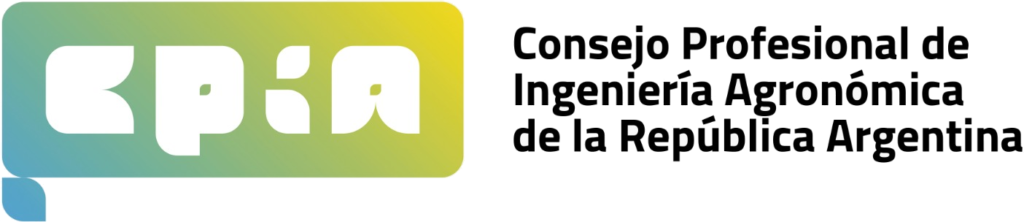
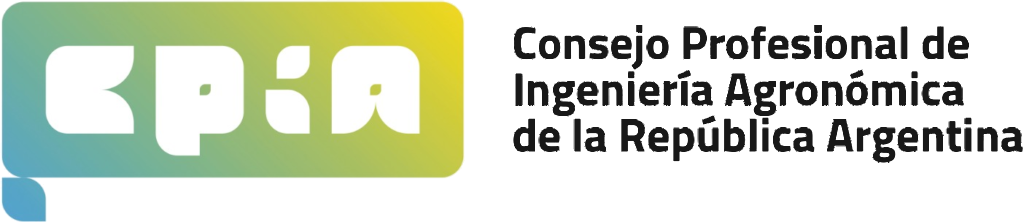
fix: remover fondo blanco atrapado en ojos de letras de INTA en avales institucionales

diff --git a/index.html b/index.html
@@ -286,7 +286,7 @@
           <!-- Fila 1: Sponsor 1 (UNLP 30.8mm) y Sponsor 2 (64.0mm) -->
           <div class="sponsors-row">
             <div class="sponsor-box box-aval-1">
-              <img src="images/sponsors/sponsor_1.png" alt="Aval Institucional" class="sponsor-logo logo-aval-1" loading="lazy">
+              <img src="images/sponsors/sponsor_1.png?v=clean_inta" alt="Aval Institucional" class="sponsor-logo logo-aval-1" loading="lazy">
             </div>
             <div class="sponsor-box box-aval-2">
               <img src="images/sponsors/sponsor_2.png" alt="Aval Institucional" class="sponsor-logo logo-aval-2" loading="lazy">
@@ -295,7 +295,7 @@
           <!-- Fila 2: Sponsor 3 (57.1mm) y Sponsor 4 (26.2mm) -->
           <div class="sponsors-row">
             <div class="sponsor-box box-aval-3">
-              <img src="images/sponsors/sponsor_3.png" alt="Aval Institucional" class="sponsor-logo logo-aval-3" loading="lazy">
+              <img src="images/sponsors/sponsor_3.png?v=clean3" alt="Aval Institucional" class="sponsor-logo logo-aval-3" loading="lazy">
             </div>
             <div class="sponsor-box box-aval-4">
               <img src="images/sponsors/sponsor_4.png" alt="Aval Institucional" class="sponsor-logo logo-aval-4" loading="lazy">
@@ -334,7 +334,7 @@
               <img src="images/sponsors/sponsor_9.png" alt="Patrocinante Induser" class="sponsor-logo logo-pat-induser" loading="lazy">
             </div>
             <div class="sponsor-box box-pat-silvarum">
-              <img src="images/sponsors/sponsor_10.png" alt="Patrocinante Silvarum" class="sponsor-logo logo-pat-silvarum" loading="lazy">
+              <img src="images/sponsors/sponsor_10.png?v=clean" alt="Patrocinante Silvarum" class="sponsor-logo logo-pat-silvarum" loading="lazy">
             </div>
           </div>
         </div>
@@ -349,7 +349,7 @@
           <!-- Fila Auspiciantes: Sponsor 11 (46.1mm), CEMAS (47.9mm), Sponsor 13 (37mm) -->
           <div class="sponsors-row">
             <div class="sponsor-box box-ausp-1">
-              <img src="images/sponsors/sponsor_11.png" alt="Auspiciante" class="sponsor-logo logo-ausp-1" loading="lazy">
+              <img src="images/sponsors/sponsor_11.png?v=clean3" alt="Auspiciante" class="sponsor-logo logo-ausp-1" loading="lazy">
             </div>
             <div class="sponsor-box box-ausp-cemas">
               <img src="images/sponsors/sponsor_12.png" alt="Auspiciante CEMAS" class="sponsor-logo logo-ausp-cemas" loading="lazy">

diff --git a/preview.html b/preview.html
@@ -407,7 +407,7 @@
           <!-- Fila 1: Sponsor 1 (UNLP 30.8mm) y Sponsor 2 (64.0mm) -->
           <div class="sponsors-row">
             <div class="sponsor-box box-aval-1">
-              <img src="images/sponsors/sponsor_1.png" alt="Aval Institucional" class="sponsor-logo logo-aval-1" loading="lazy">
+              <img src="images/sponsors/sponsor_1.png?v=clean_inta" alt="Aval Institucional" class="sponsor-logo logo-aval-1" loading="lazy">
             </div>
             <div class="sponsor-box box-aval-2">
               <img src="images/sponsors/sponsor_2.png" alt="Aval Institucional" class="sponsor-logo logo-aval-2" loading="lazy">
@@ -416,7 +416,7 @@
           <!-- Fila 2: Sponsor 3 (57.1mm) y Sponsor 4 (26.2mm) -->
           <div class="sponsors-row">
             <div class="sponsor-box box-aval-3">
-              <img src="images/sponsors/sponsor_3.png" alt="Aval Institucional" class="sponsor-logo logo-aval-3" loading="lazy">
+              <img src="images/sponsors/sponsor_3.png?v=clean3" alt="Aval Institucional" class="sponsor-logo logo-aval-3" loading="lazy">
             </div>
             <div class="sponsor-box box-aval-4">
               <img src="images/sponsors/sponsor_4.png" alt="Aval Institucional" class="sponsor-logo logo-aval-4" loading="lazy">
@@ -455,7 +455,7 @@
               <img src="images/sponsors/sponsor_9.png" alt="Patrocinante Induser" class="sponsor-logo logo-pat-induser" loading="lazy">
             </div>
             <div class="sponsor-box box-pat-silvarum">
-              <img src="images/sponsors/sponsor_10.png" alt="Patrocinante Silvarum" class="sponsor-logo logo-pat-silvarum" loading="lazy">
+              <img src="images/sponsors/sponsor_10.png?v=clean" alt="Patrocinante Silvarum" class="sponsor-logo logo-pat-silvarum" loading="lazy">
             </div>
           </div>
         </div>
@@ -470,7 +470,7 @@
           <!-- Fila Auspiciantes: Sponsor 11 (46.1mm), CEMAS (47.9mm), Sponsor 13 (37mm) -->
           <div class="sponsors-row">
             <div class="sponsor-box box-ausp-1">
-              <img src="images/sponsors/sponsor_11.png" alt="Auspiciante" class="sponsor-logo logo-ausp-1" loading="lazy">
+              <img src="images/sponsors/sponsor_11.png?v=clean3" alt="Auspiciante" class="sponsor-logo logo-ausp-1" loading="lazy">
             </div>
             <div class="sponsor-box box-ausp-cemas">
               <img src="images/sponsors/sponsor_12.png" alt="Auspiciante CEMAS" class="sponsor-logo logo-ausp-cemas" loading="lazy">
